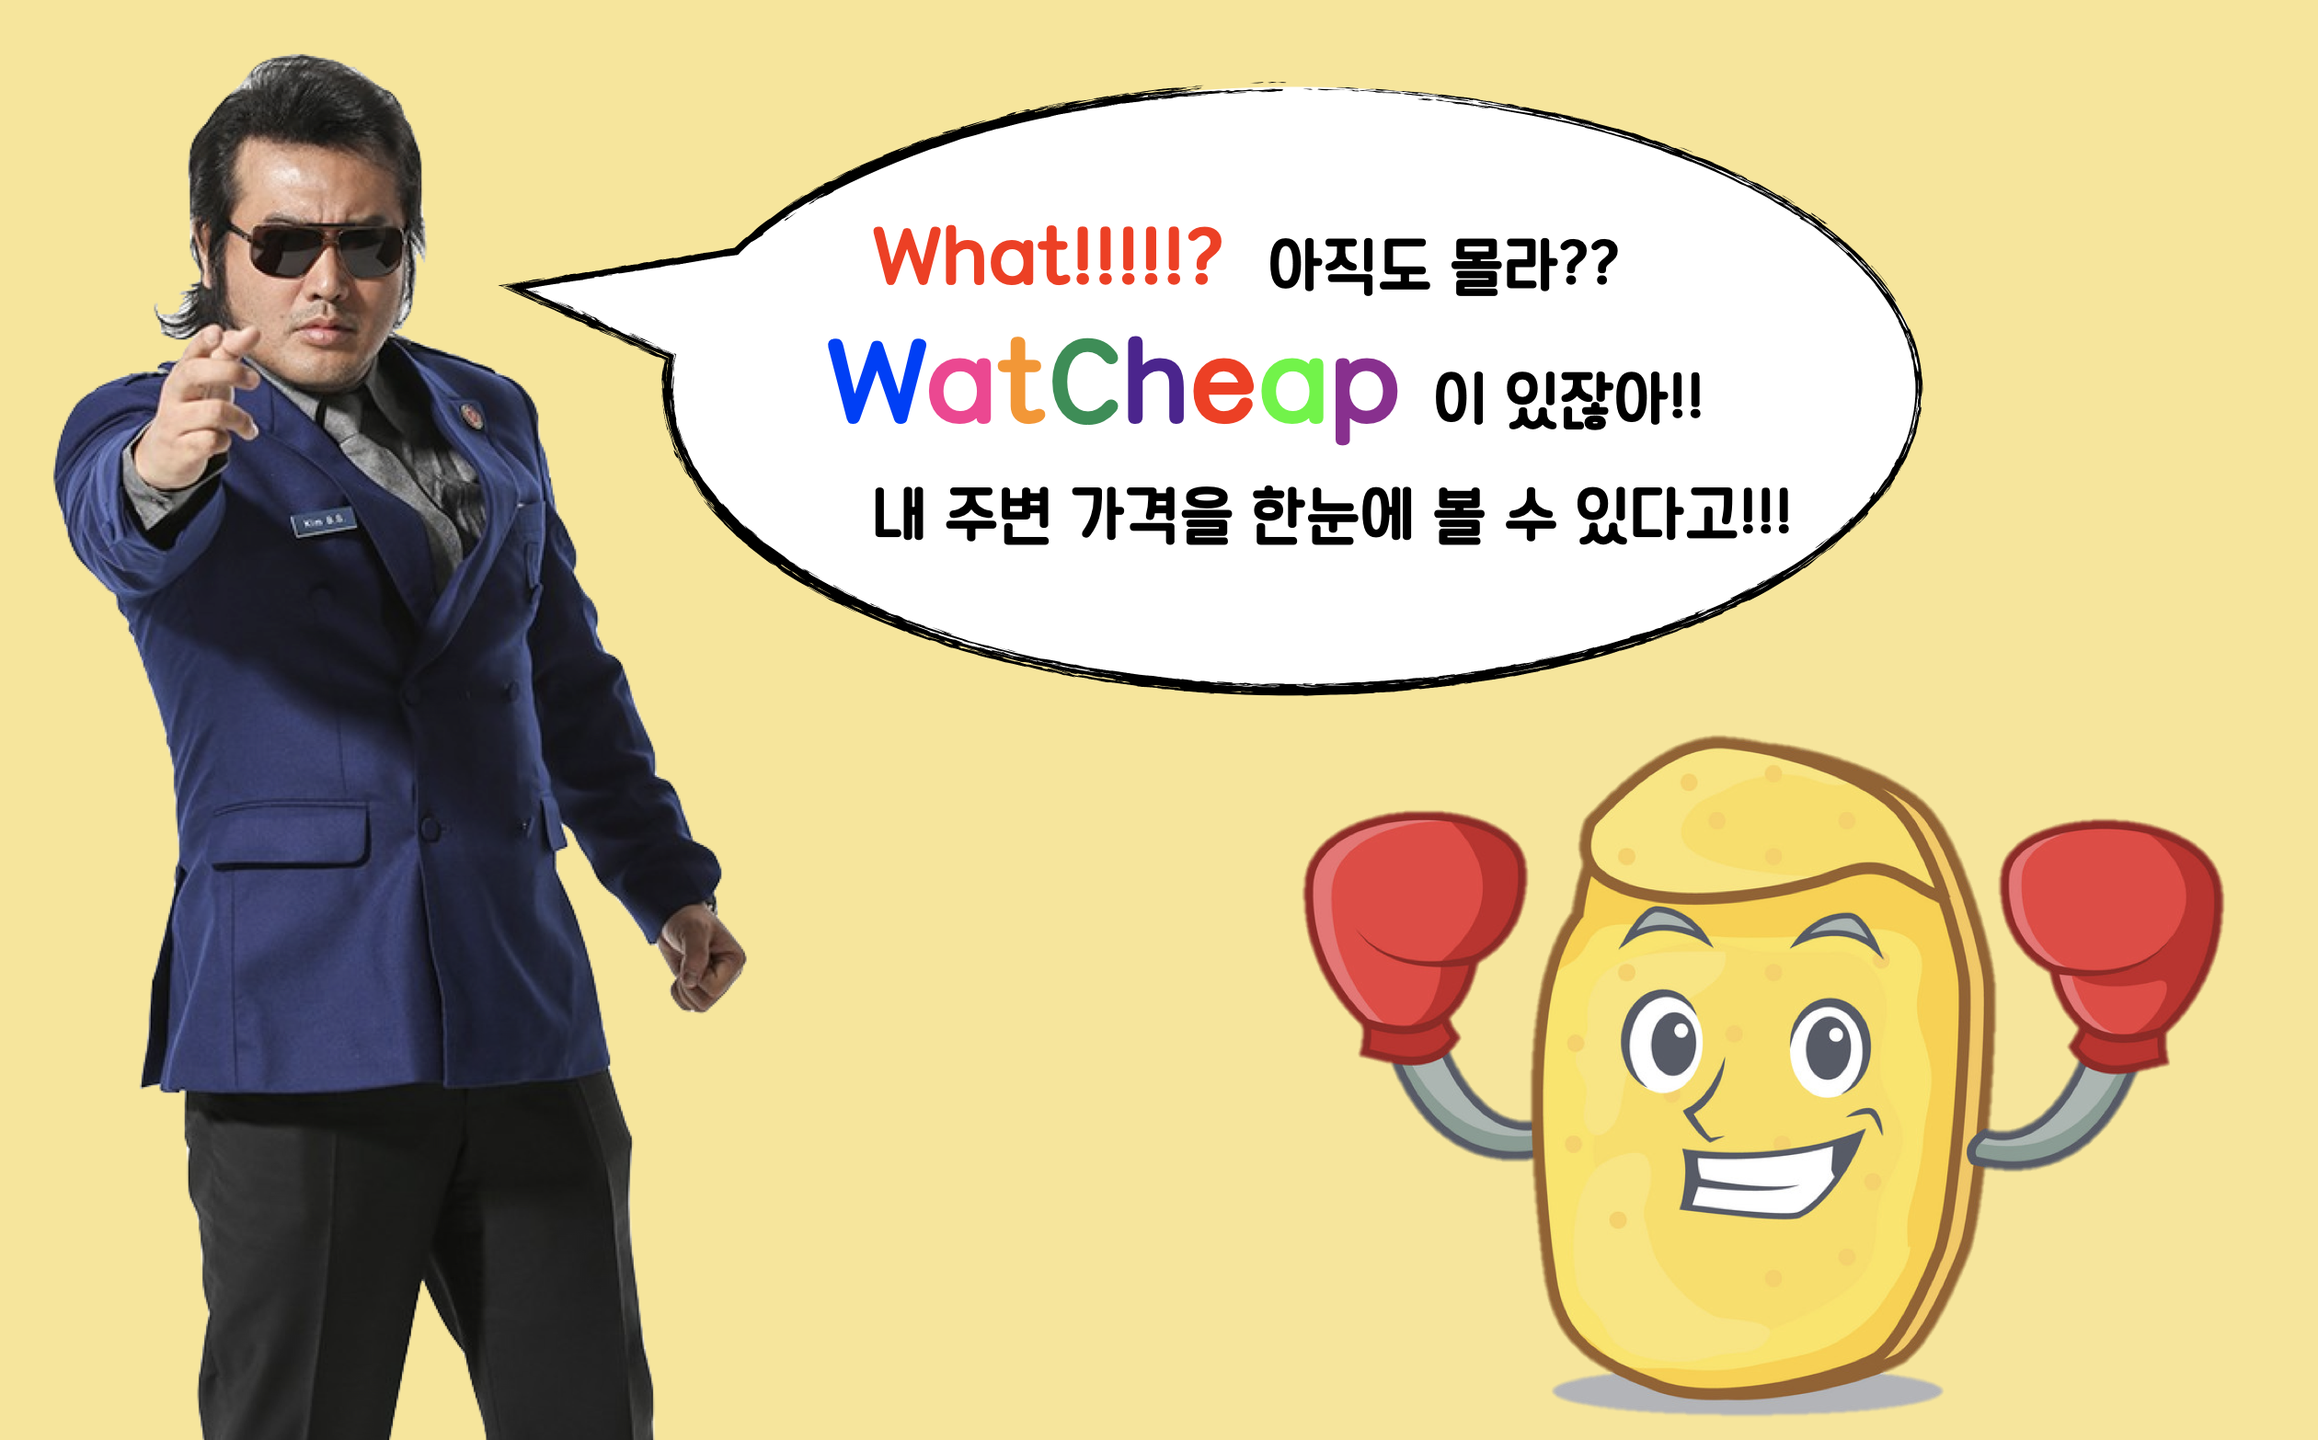
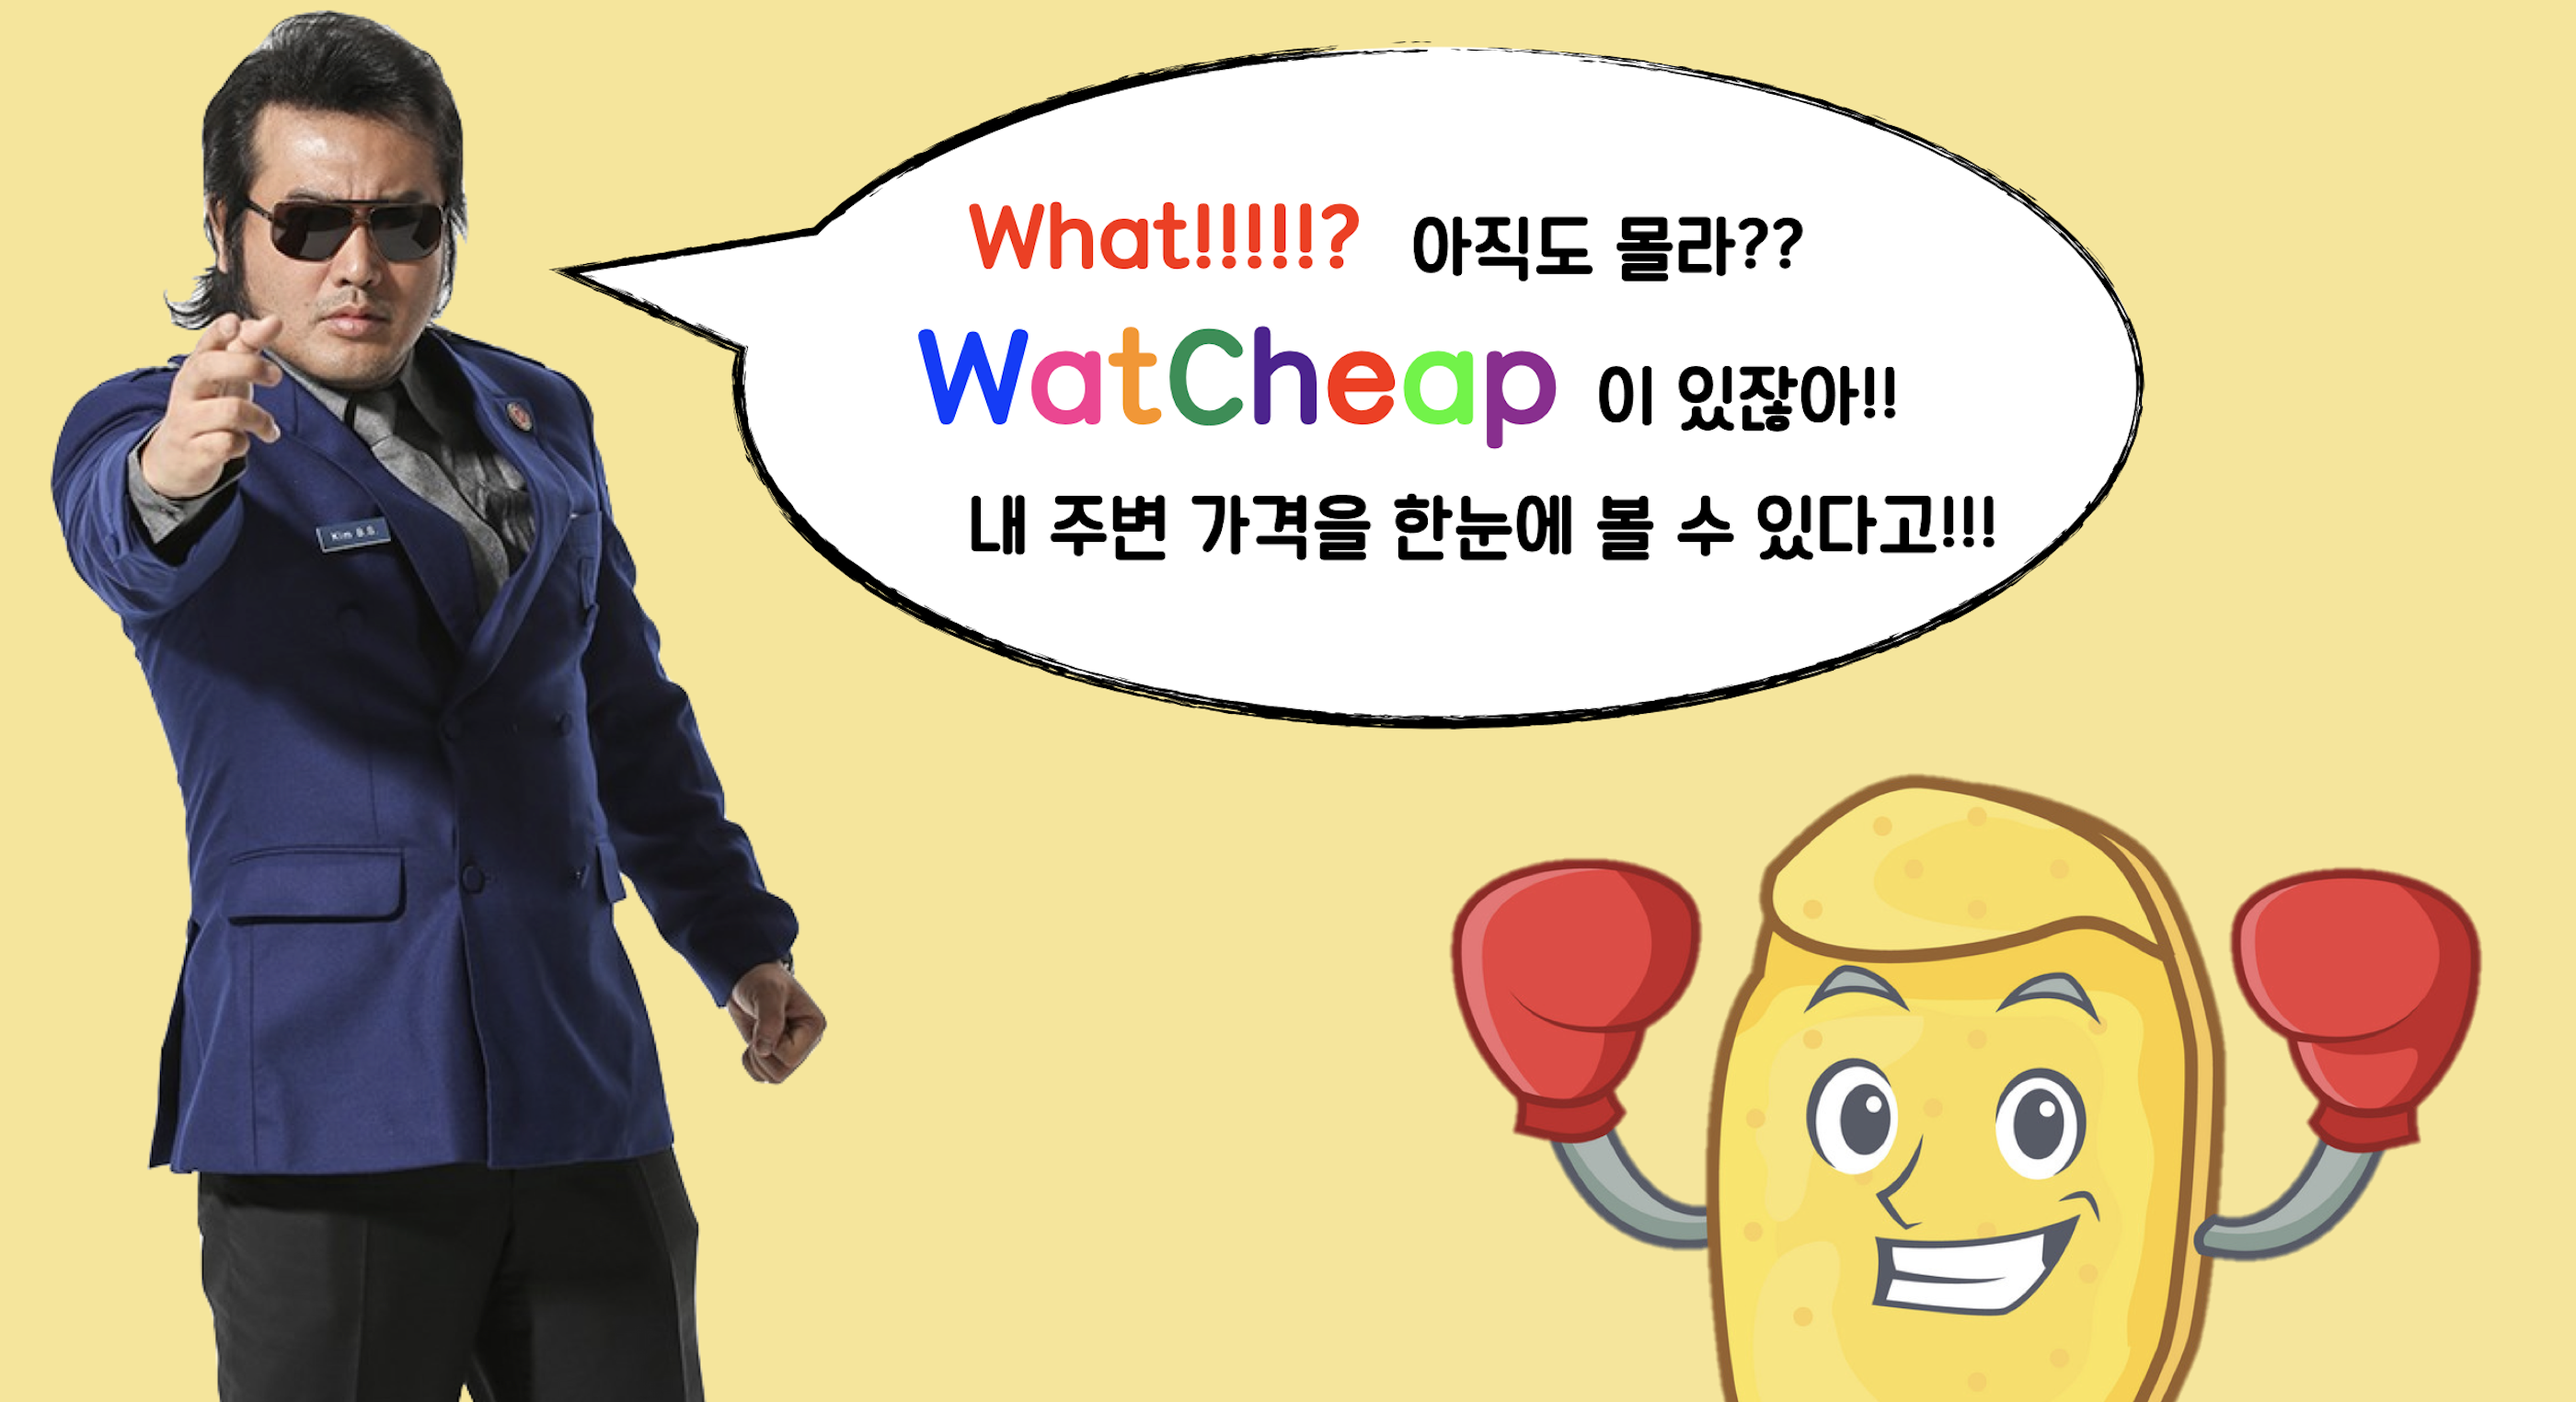
change image size

diff --git a/index.html b/index.html
@@ -56,10 +56,8 @@
 <a class='mt-5 mb-5'><img src='assets/img/twigfarm.png' class ='img-height-12-0 mr-3'>Twigfarm Developer (NIA 인공지능 말뭉치 프로젝트)</a>
 <a class='mt-5  mb-5'><img src='assets/img/yonsei1.png' class ='img-height-12-0 mr-3'>B.A. Yonsei University International Studies Business and Economics</a>
 <a class='mt-5 mb-5'><img src='assets/img/multicampus.png' class ='img-height-11 mr-3' style='background-color:#ffffe6'>Samsung SDS Multicampus Big Data Platform Using Open API</a>
-<a class='mt-5 mb-5'><img src='assets/img/projects/foother.png' class ='img-height-12 mr-2'>Leader - UX Designer, Back-end Engineer (Django / Python), DB Management(SQLite)</a>
-<a class='mt-5 mb-5'><img src='assets/img/projects/gomgam.jpg' class ='img-height-12 mr-2'>Leader - UX Designer, Back-end Engineer(Spring / Java), DB Management(Oracle)</a>
-<a class='mt-5 mb-5'><img src='assets/img/projects/sharinglogic.png' class='img-height-12 mr-2' style='background-color:#ffffe6'>Supporter - UX Designer(In Design), Back-end Engineer(Spring / Java)</a>
-<a class='mt-5 mb-5'><img src='assets/img/projects/weetlogo.png' class ='img-height-12 mr-2' style='background-color:skyblue' >Leader - Front-end Engineer(Spring / Java)</a>
+<a class='mt-5 mb-5'><img src='assets/img/projects/foother.png' class ='img-height-12 mr-2'> <img src='assets/img/projects/gomgam.jpg' class ='img-height-12 mr-2'><img src='assets/img/projects/sharinglogic.png' class='img-height-12 mr-2' style='background-color:#ffffe6'><img src='assets/img/projects/weetlogo.png' class ='img-height-12 mr-2' style='background-color:skyblue' ></a>
+<a class='mt-5 mb-5'>Project Leader & UX Designer, Back-end (Java&Spring / Python/Django), DB (Oracle / SQLite)</a>
 <a class='mt-5 mb-5'><img src='assets/img/starbucks.png' class ='img-height-12-0 mr-2'>Starbucks Partner
 <a class='mt-5 mb-5'>Language - 🇰🇷🇺🇸🇯🇵🇨🇳 </a>
 Based on Seoul, Seattle, New York</p>
